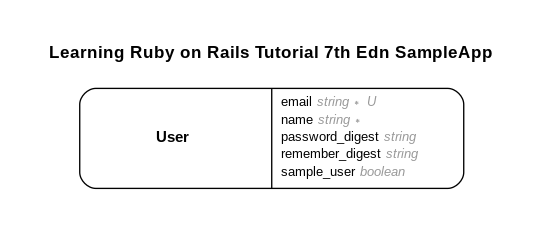
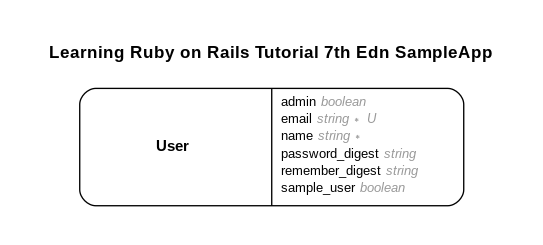
10.4.1 protect admin

diff --git a/db/schema.rb b/db/schema.rb
@@ -10,7 +10,7 @@
 #
 # It's strongly recommended that you check this file into your version control system.
 
-ActiveRecord::Schema[7.0].define(version: 2022_07_02_144703) do
+ActiveRecord::Schema[7.0].define(version: 2022_07_03_104152) do
   create_table "users", force: :cascade do |t|
     t.string "name"
     t.string "email"
@@ -19,6 +19,7 @@ ActiveRecord::Schema[7.0].define(version: 2022_07_02_144703) do
     t.string "password_digest"
     t.string "remember_digest"
     t.boolean "sample_user", default: false
+    t.boolean "admin", default: false
     t.index ["email"], name: "index_users_on_email", unique: true
   end
 

diff --git a/db/seeds.rb b/db/seeds.rb
@@ -6,11 +6,12 @@
 #   movies = Movie.create([{ name: "Star Wars" }, { name: "Lord of the Rings" }])
 #   Character.create(name: "Luke", movie: movies.first)
 password = ENV.fetch('SAMPLE_PASSWORD',OpenSSL::Random.random_bytes(20).unpack('M*').join)
-User.create!(name: 'Example User',
+User.create!(name: 'Admin User',
              email: 'example@railstutorial.org',
              password: password,
              password_confirmation: password,
-             sample_user: true)
+             sample_user: false,
+             admin: true)
 
 99.times do |n|
   User.create!(name: Faker::Name.name,

diff --git a/test/controllers/users_controller_test.rb b/test/controllers/users_controller_test.rb
@@ -43,4 +43,11 @@ class UsersControllerTest < ActionDispatch::IntegrationTest
     assert flash.empty?
     assert_redirected_to root_url
   end
+
+  test 'should not allow the admin attribute to be edited via the web' do
+    log_in_as @other_user
+    assert_not @other_user.admin?
+    patch user_path(@other_user), params: { user: { password: 'password', password_confirmation: 'password', admin: true } }
+    assert_not @other_user.reload.admin?
+  end
 end

diff --git a/db/migrate/20220703104152_add_admin_to_users.rb b/db/migrate/20220703104152_add_admin_to_users.rb
@@ -1,0 +1,5 @@
+class AddAdminToUsers < ActiveRecord::Migration[7.0]
+  def change
+    add_column :users, :admin, :boolean, default: false
+  end
+end

diff --git a/CHANGELOG.md b/CHANGELOG.md
@@ -5,7 +5,7 @@ All notable changes to this project will be documented in this file.
 The format is based on [Keep a Changelog](https://keepachangelog.com/en/1.0.0/),
 and this project adheres to [Semantic Versioning](https://semver.org/spec/v2.0.0.html).
 
-About to start [Chapter 10.3.4 Deleting users](https://www.learnenough.com/ruby-on-rails-7th-edition-tutorial/updating_and_deleting_users#sec-deleting_users)
+About to start [Chapter 10.4.2 the destroy action](https://www.learnenough.com/ruby-on-rails-7th-edition-tutorial/updating_and_deleting_users#sec-the_destroy_action
 
 ## TODO
 
@@ -30,7 +30,8 @@ About to start [Chapter 10.3.4 Deleting users](https://www.learnenough.com/ruby-
 - 10.3.3 pagination
 - 10.3.4 users index test
 - 10.3.5 refactoring
-- 10.4
+- 10.4.1 protect the admin attribute
+- 10.4.2 the destroy action
 
 ## v0.0.8 2022-05-22
 
